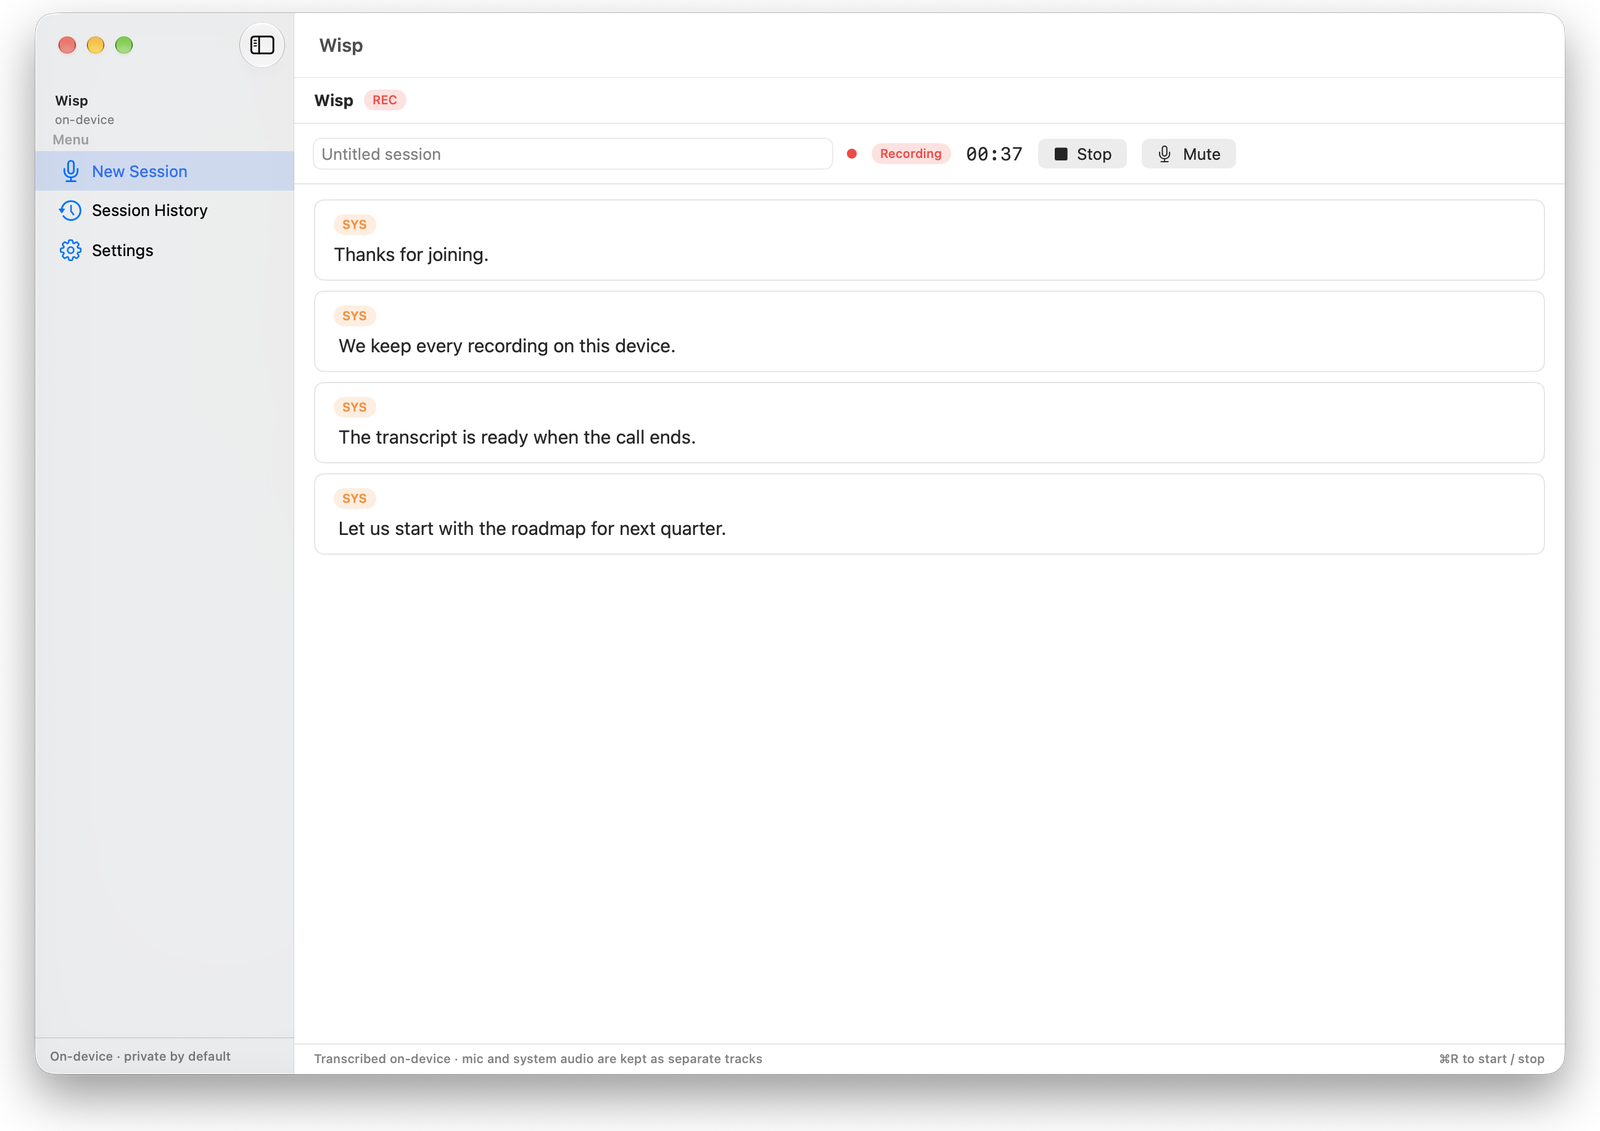
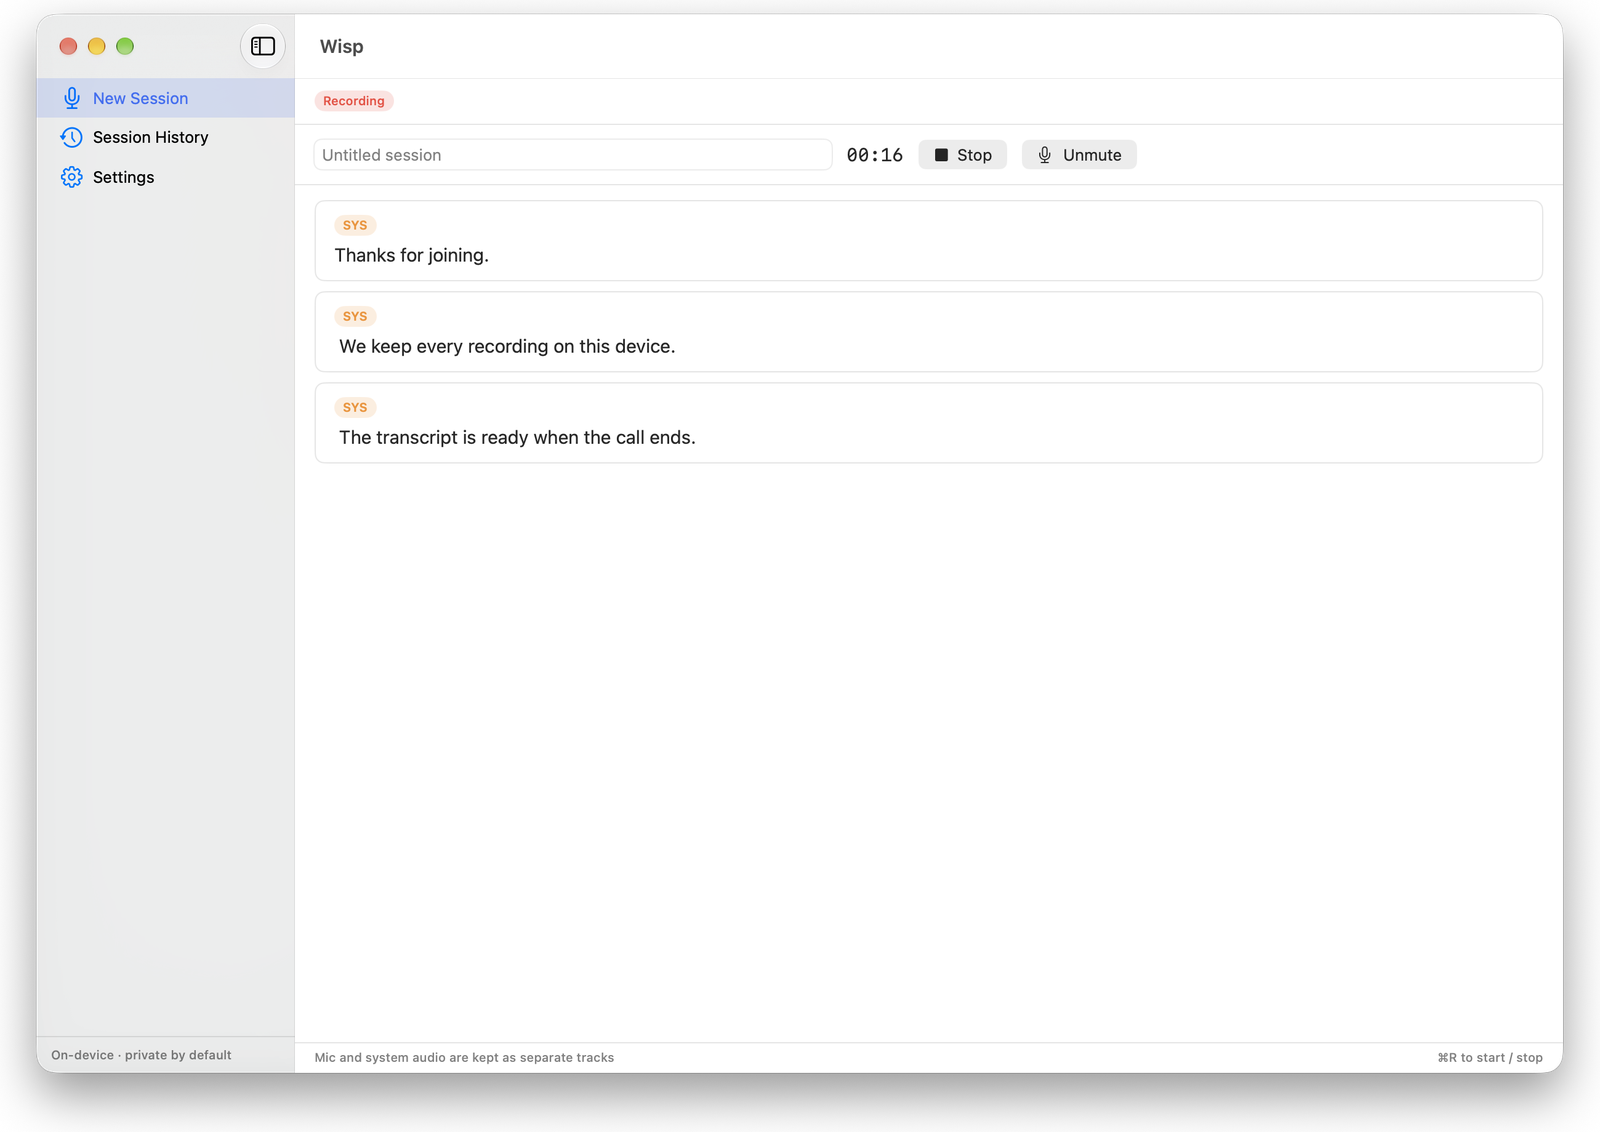
docs(site): recapture the six screenshots after the copy cleanup
#214 removed the second wordmark, the duplicate phase tag, and the repeated
copy on every screen, so the site still showed labels the app no longer
prints. Replace all six captures with frames from a build at that commit and
update the image heights to match.

diff --git a/site/index.html b/site/index.html
@@ -104,7 +104,7 @@
               src="screenshot.png"
               alt="Wisp session library in light appearance, listing four saved sessions"
               width="1600"
-              height="1131"
+              height="1132"
               loading="lazy"
             />
             <figcaption>Session library, light appearance</figcaption>
@@ -114,7 +114,7 @@
               src="screenshot-dark.png"
               alt="Wisp session library in dark appearance"
               width="1600"
-              height="1135"
+              height="1136"
               loading="lazy"
             />
             <figcaption>Session library, dark appearance</figcaption>
@@ -124,7 +124,7 @@
               src="screenshot-search.png"
               alt="Transcript search in Wisp, showing the two sessions that mention the search term"
               width="1600"
-              height="1116"
+              height="1132"
               loading="lazy"
             />
             <figcaption>Search across every transcript</figcaption>
@@ -134,7 +134,7 @@
               src="screenshot-live.png"
               alt="Wisp live recording screen with SYS segments arriving and the record timer running"
               width="1600"
-              height="1131"
+              height="1132"
               loading="lazy"
             />
             <figcaption>Live recording, SYS track</figcaption>
@@ -144,7 +144,7 @@
               src="screenshot-history.png"
               alt="Saved Wisp session transcript with MIC and SYS labels, plus Copy and Export buttons"
               width="1600"
-              height="1131"
+              height="1132"
               loading="lazy"
             />
             <figcaption>Saved transcript</figcaption>
@@ -154,7 +154,7 @@
               src="screenshot-settings.png"
               alt="Wisp settings with appearance, transcription language, permissions, and meeting detection policies"
               width="1600"
-              height="1131"
+              height="1132"
               loading="lazy"
             />
             <figcaption>Settings and meeting detection</figcaption>
